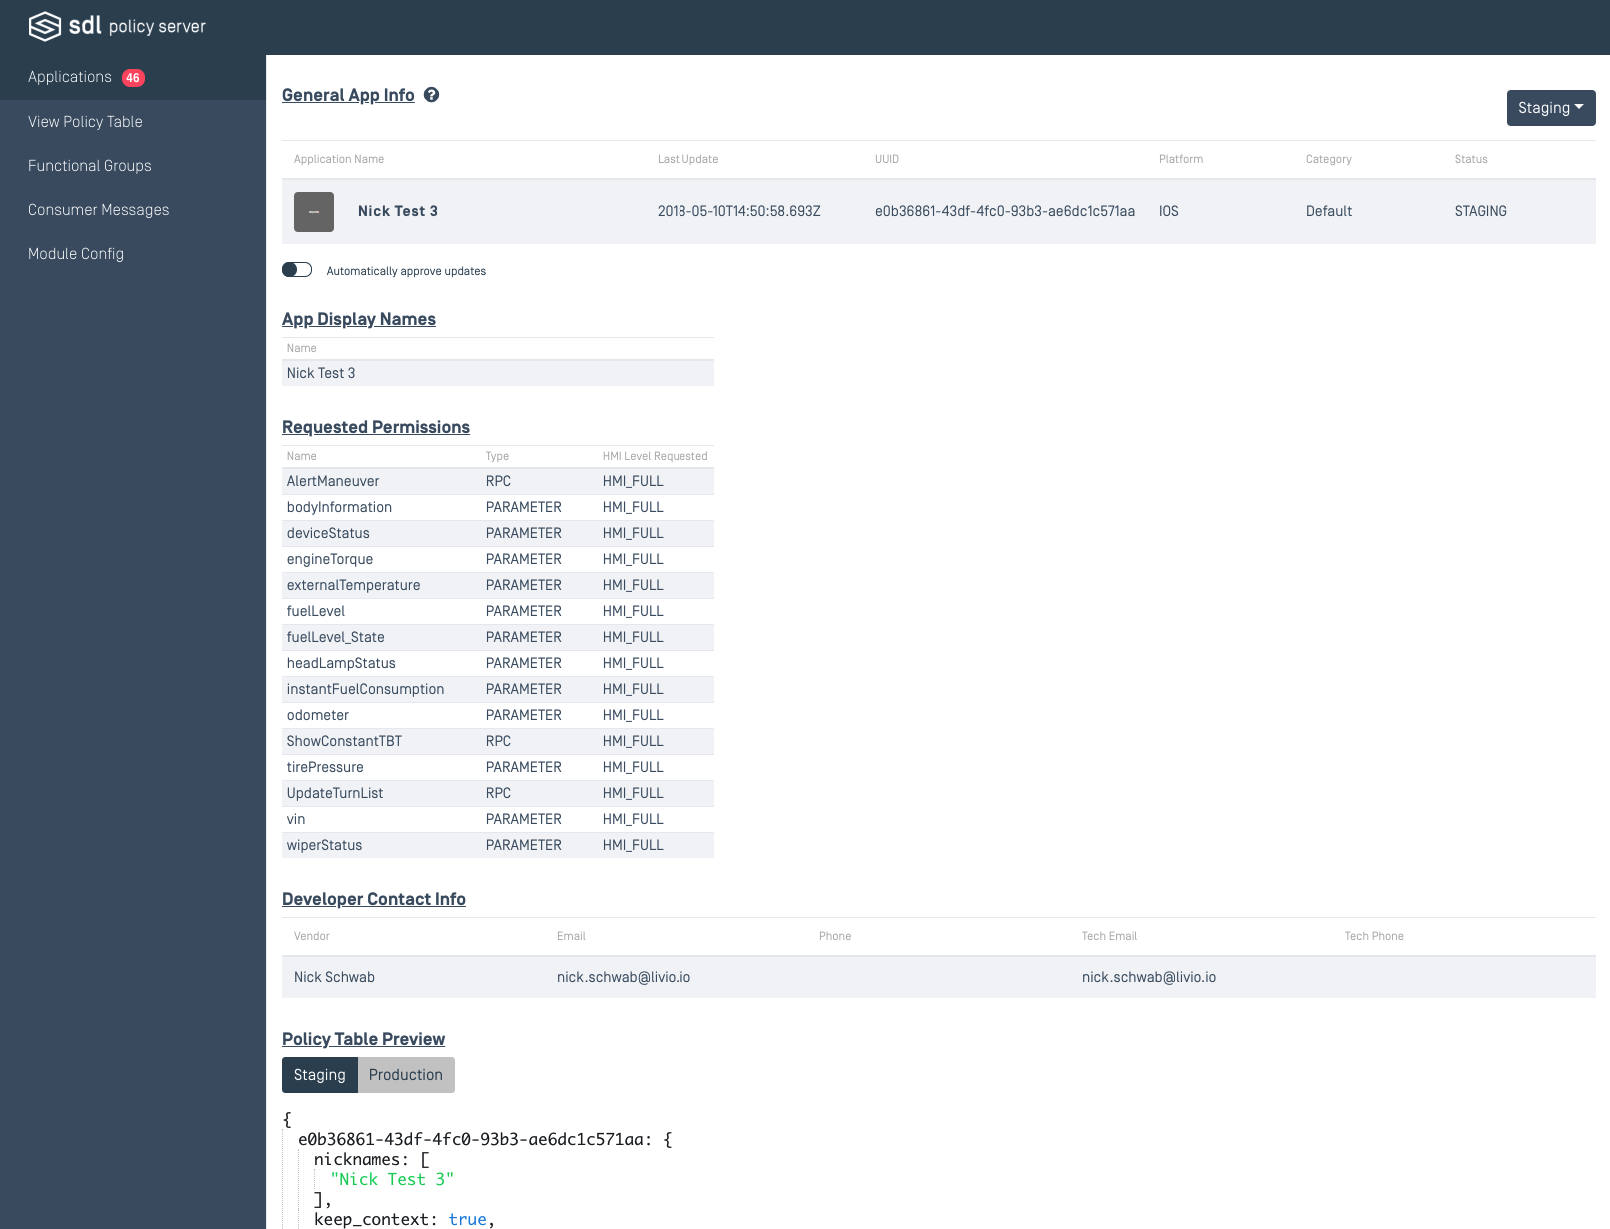
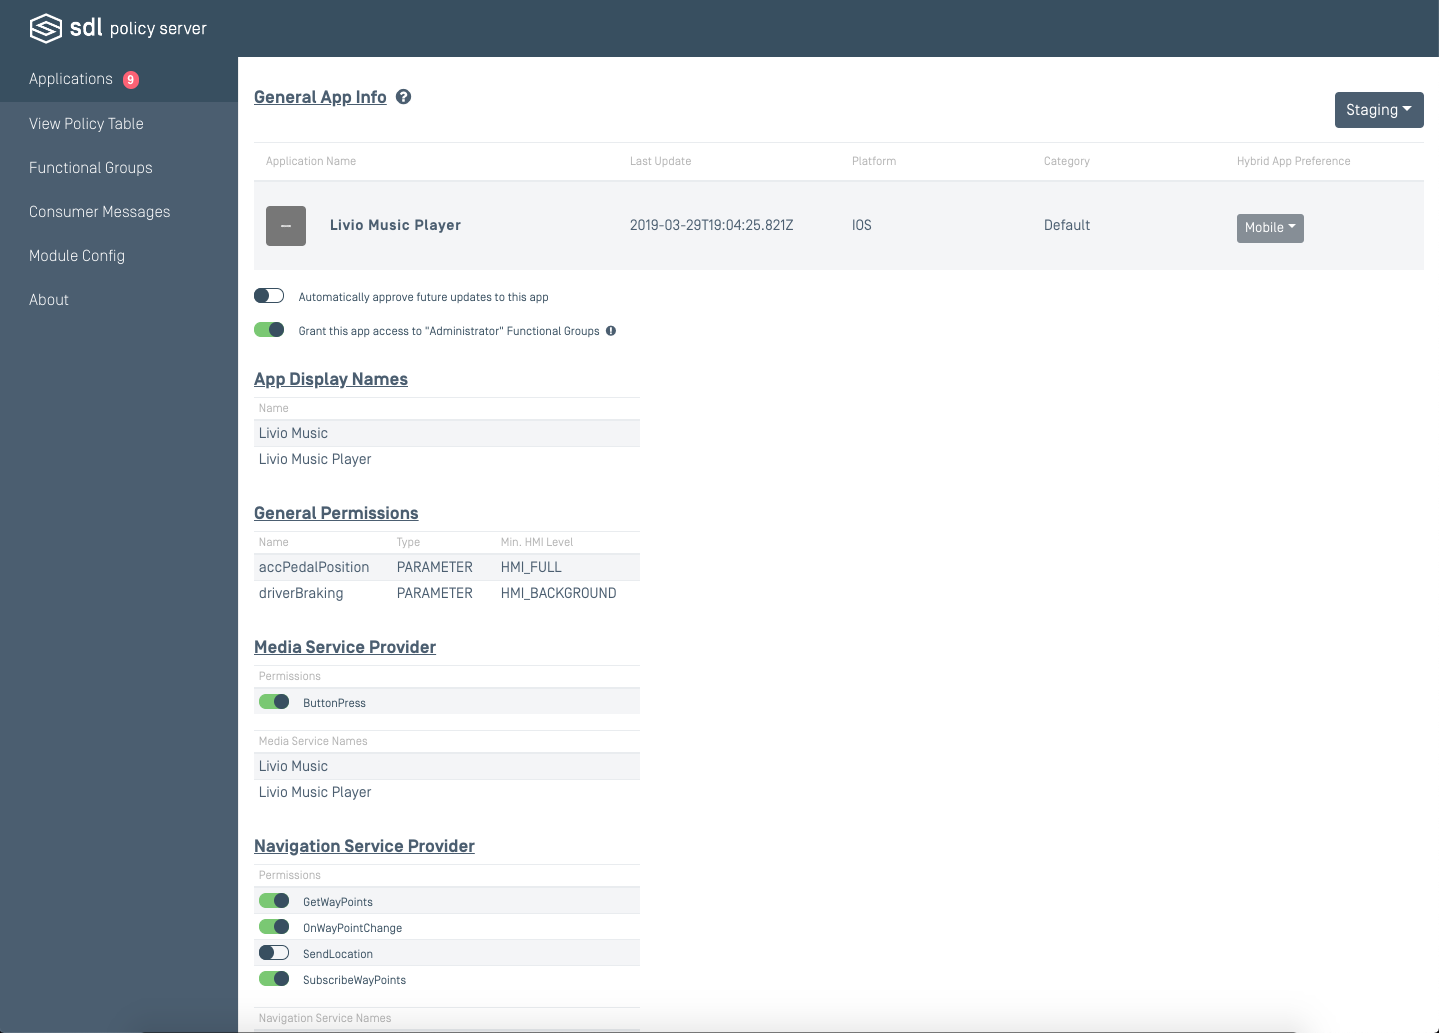
+ support for EMBEDDED apps (treated like CLOUD apps) + 2.6.0 documentation updates

diff --git a/src/components/ApplicationDetails.vue b/src/components/ApplicationDetails.vue
@@ -75,12 +75,12 @@
                             </tbody>
                         </table>
                     </div>
-                    <div v-if="app.platform == 'CLOUD'" class="table-responsive">
+                    <div v-if="app.platform == 'CLOUD' || app.platform == 'EMBEDDED'" class="table-responsive">
                         <table class="table table-striped">
                             <thead>
                                 <tr>
-                                    <th>Cloud Endpoint</th>
-                                    <th>Cloud Transport Type</th>
+                                    <th>Endpoint</th>
+                                    <th>Transport Type</th>
                                 </tr>
                             </thead>
                             <tbody>

diff --git a/documentation/guides/User Interface/Applications/index.md b/documentation/guides/User Interface/Applications/index.md
@@ -12,19 +12,28 @@ This page displays a list of applications pulled from the SHAID server. When ini
 | Last Update | The timestamp from when the app information was most recently updated. |
 | Platform | Android/IOS |
 | Category | Specifies the type of application. eg. Media, Information, Social. |
-| State | The approval status of the current application. |
+| Hybrid App Preference | Which app to show on the HMI when the same app is detected on multiple platforms. |
+| Endpoint | For cloud/embedded apps, the server endpoint of the app. |
+| Transport Type | For cloud/embedded apps, the expected transport type of the server endpoint. |
 
 ### App Display Names
 | Property | Definition |
 |----------|---------|
 | Name   | Alternate strings to identify the application. The app's name must match one of these in order for it to connect to Core. |
 
-### Requested Permissions
+### General Permissions
 | Property | Definition |
 |----------|---------|
 | Name | Strings to identify the permission. |
 | Type | RPC  |
 | HMI Level Requested | BACKGROUND/FULL/NONE/LIMITED   |
+
+### Service Provider
+Service Provider options appear when an application has requested to be an App Service provider. OEMs may choose which RPCs/events the application is allowed to receive via the permission toggle switches. OEMs should note that disabling all the toggle switches does *not* revoke the application's general ability to act as an App Service Provider, but simply limits the app's abilities regarding that particular Service.
+
+| Property | Definition |
+|----------|---------|
+| Permissions | An RPC/event related to the app's requested service.  |
 
 ### Developer Contact Info
 | Property | Definition |
@@ -39,35 +48,74 @@ This page displays a list of applications pulled from the SHAID server. When ini
 ### Policy Table Preview
 This is an example of how the app and its required permissions will appear in the Policy Table.
 ```
-  {
-    nicknames: [
-      "App Display Names"
-    ],
-    keep_context: true,
-    steal_focus: true,
-    priority: "NONE",
-    default_hmi: "NONE",
-    groups: [
-      "FunctionalGroup1",
-      "FunctionalGroup2",
-      "FunctionalGroup3"
-    ],
-    moduleType: [
-
-    ]
-  }
+{
+  "nicknames": [
+    "Livio Music",
+    "Livio Music Player"
+  ],
+  "keep_context": true,
+  "steal_focus": true,
+  "priority": "NONE",
+  "default_hmi": "NONE",
+  "groups": [
+    "AdministratorGroup",
+    "AppServiceConsumerGroup",
+    "AppServiceProviderGroup",
+    "Base-4",
+    "DialNumberOnlyGroup",
+    "DrivingCharacteristics-3",
+    "HapticGroup",
+    "Notifications",
+    "OnKeyboardInputOnlyGroup",
+    "OnTouchEventOnlyGroup"
+  ],
+  "moduleType": [],
+  "RequestType": [],
+  "RequestSubType": [],
+  "app_services": {
+    "MEDIA": {
+      "service_names": [
+        "Livio Music",
+        "Livio Music Player"
+      ],
+      "handled_rpcs": [
+        {
+          "function_id": 41
+        }
+      ]
+    },
+    "NAVIGATION": {
+      "service_names": [
+        "Livio",
+        "Livio Music and Nav"
+      ],
+      "handled_rpcs": [
+        {
+          "function_id": 45
+        },
+        {
+          "function_id": 32784
+        },
+        {
+          "function_id": 46
+        }
+      ]
+    }
+  },
+  "hybrid_app_preference": "MOBILE"
+}
 ```
 ## Significance of Approval States
 The top right corner of the application's review page contains a drop down allowing the user to change the approval state of the application. See below for what each state signifies.
 
 ##### Pending
-New applications and updated applications that reach your SDL Policy Server will be granted the approval state of pending. Pending applications are treated like limited applications in that they will not be given any changes requested, but will be given permissions in default functional groups. Pending applications require action performed on them in order for the application to be officially approved or limited. 
+New applications and updated applications that reach your SDL Policy Server will be granted the approval state of pending. Pending applications are treated like limited applications in that they will not be given any changes requested, but will be given permissions in default functional groups. Pending applications require action performed on them in order for the application to be officially approved or limited.
 
 ##### Staging
 Applications in the staging state will have their permissions granted when using the staging policy table, but not the production policy table. This mode is useful for testing purposes.
 
 ##### Accepted
-Applications in the accepted state will have their permissions granted when using both the staging and the production policy table. This state is for applications that are allowed to be used in a production environment. 
+Applications in the accepted state will have their permissions granted when using both the staging and the production policy table. This state is for applications that are allowed to be used in a production environment.
 
 ##### Limited
 Limited applications will not receive their requested changes. However, permissions received from the previously accepted version and from default functional groups will still be given. Additional options include providing a reasoning for limiting the application for your future reference. While in the limited state, you also have the option to blacklist the application.
